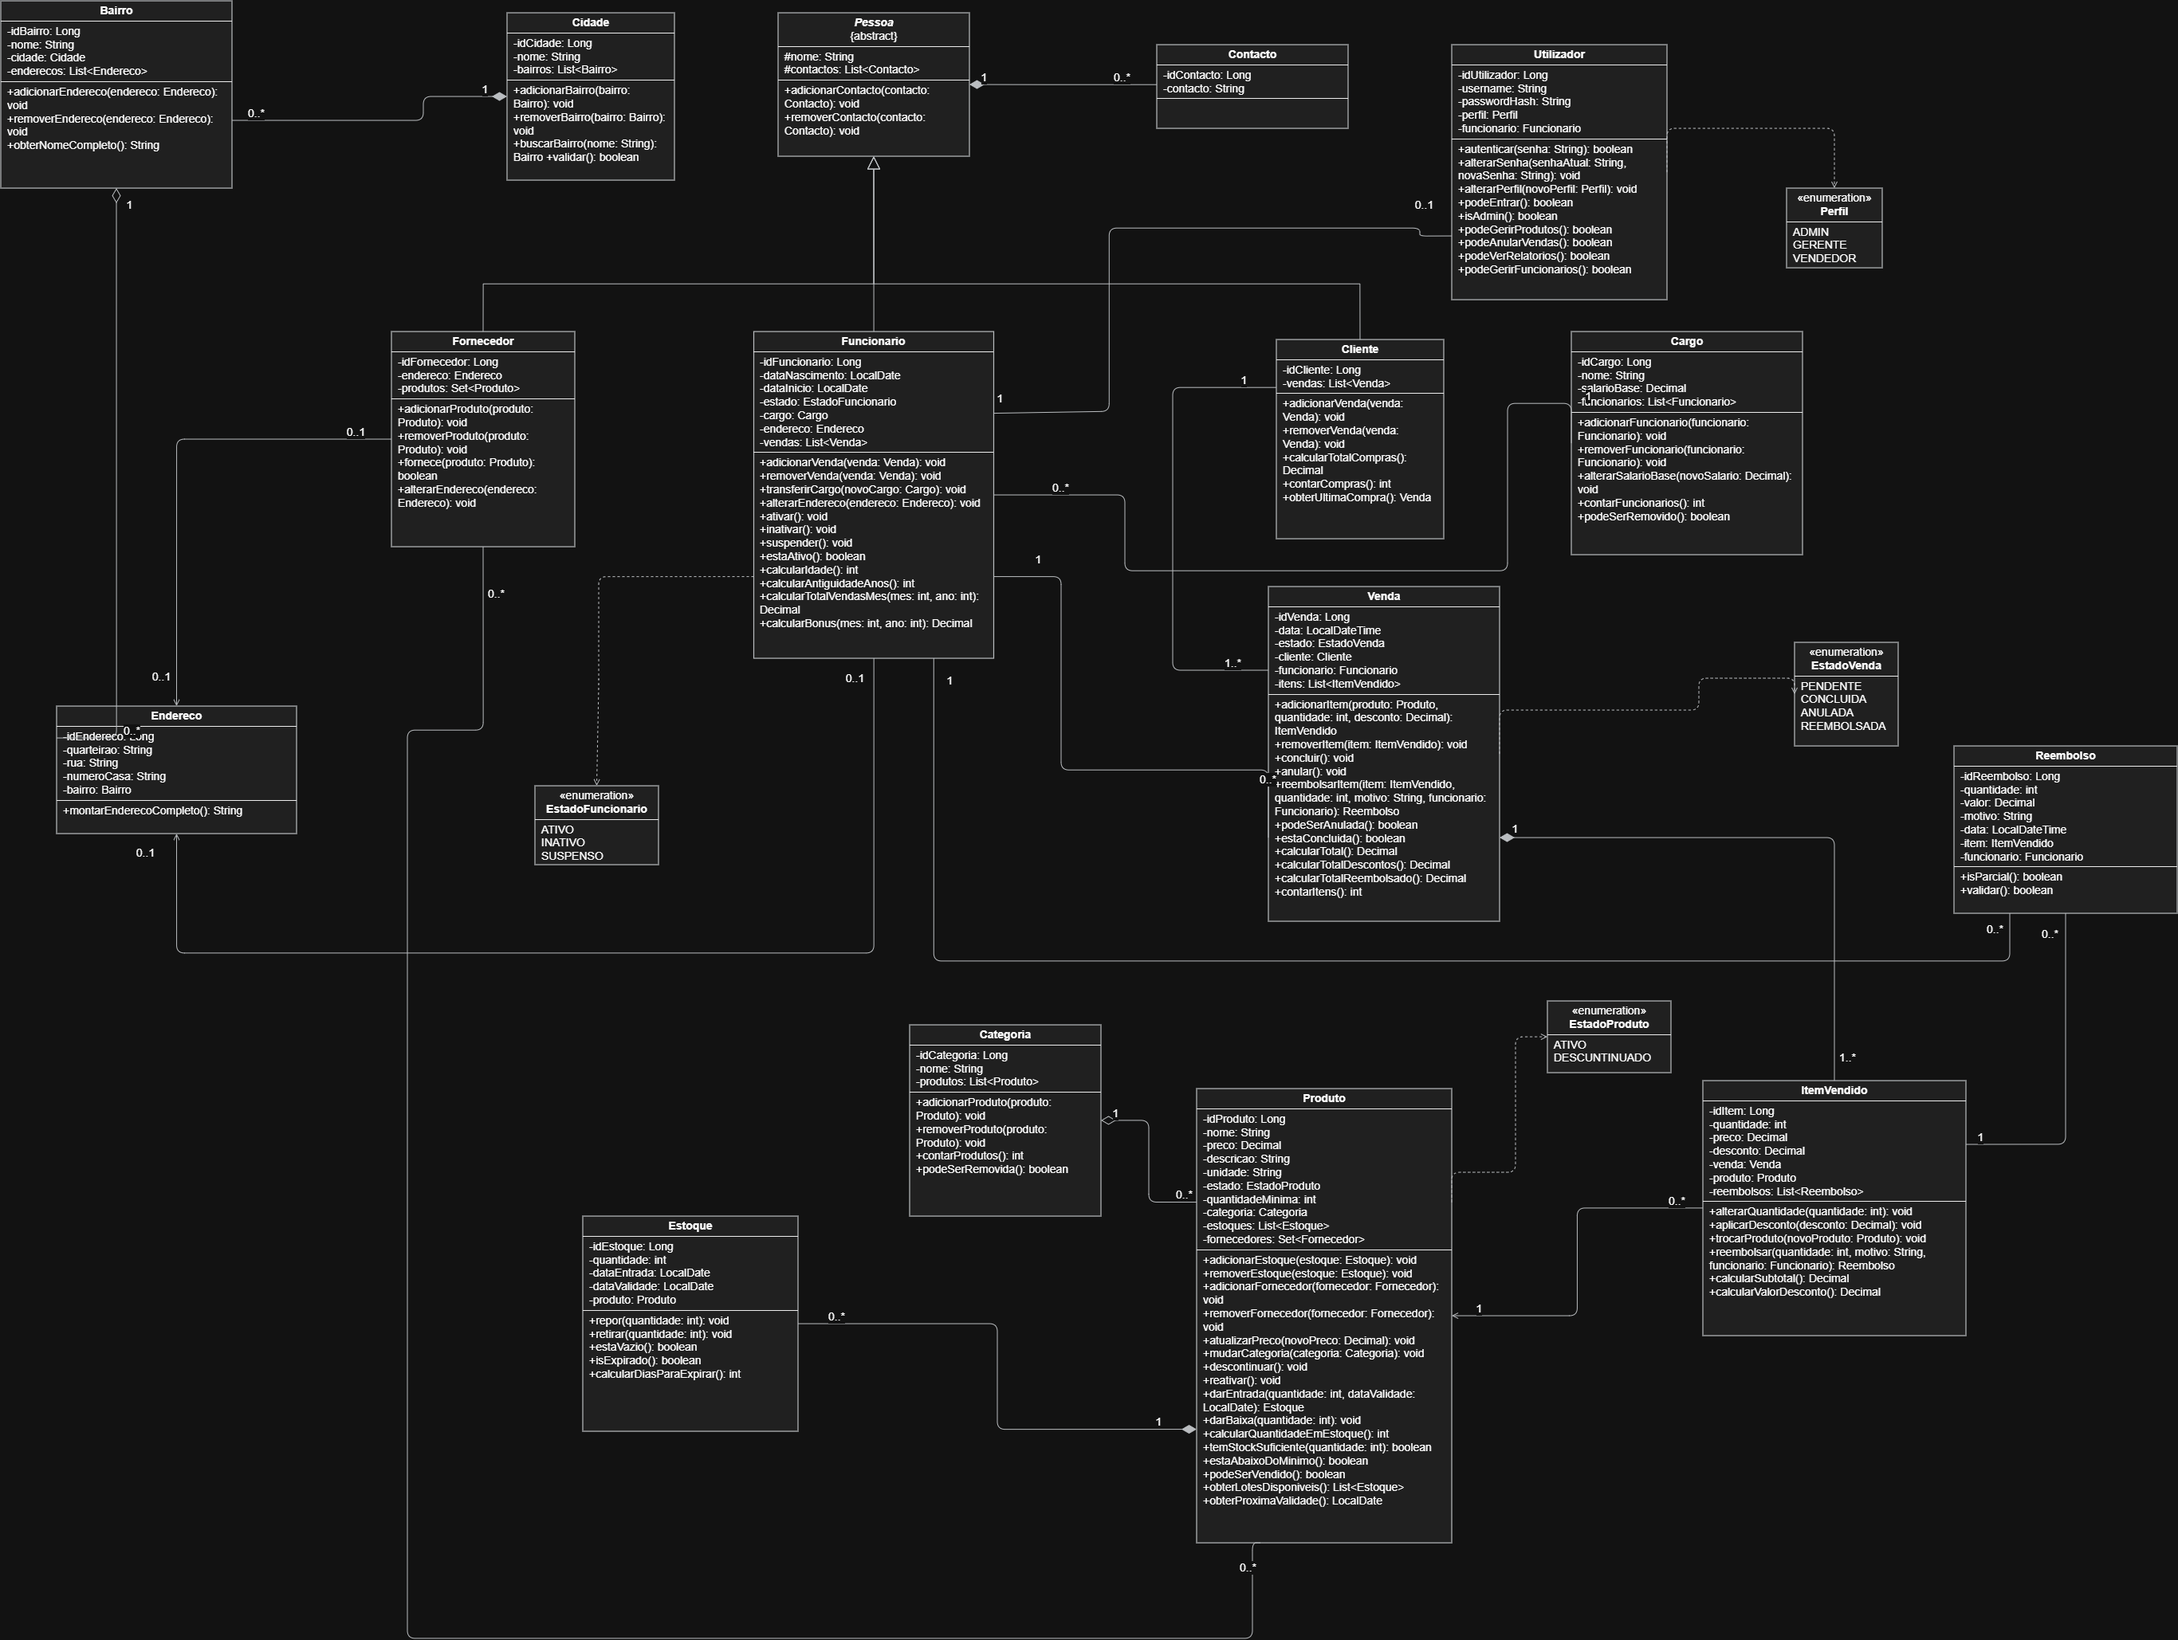
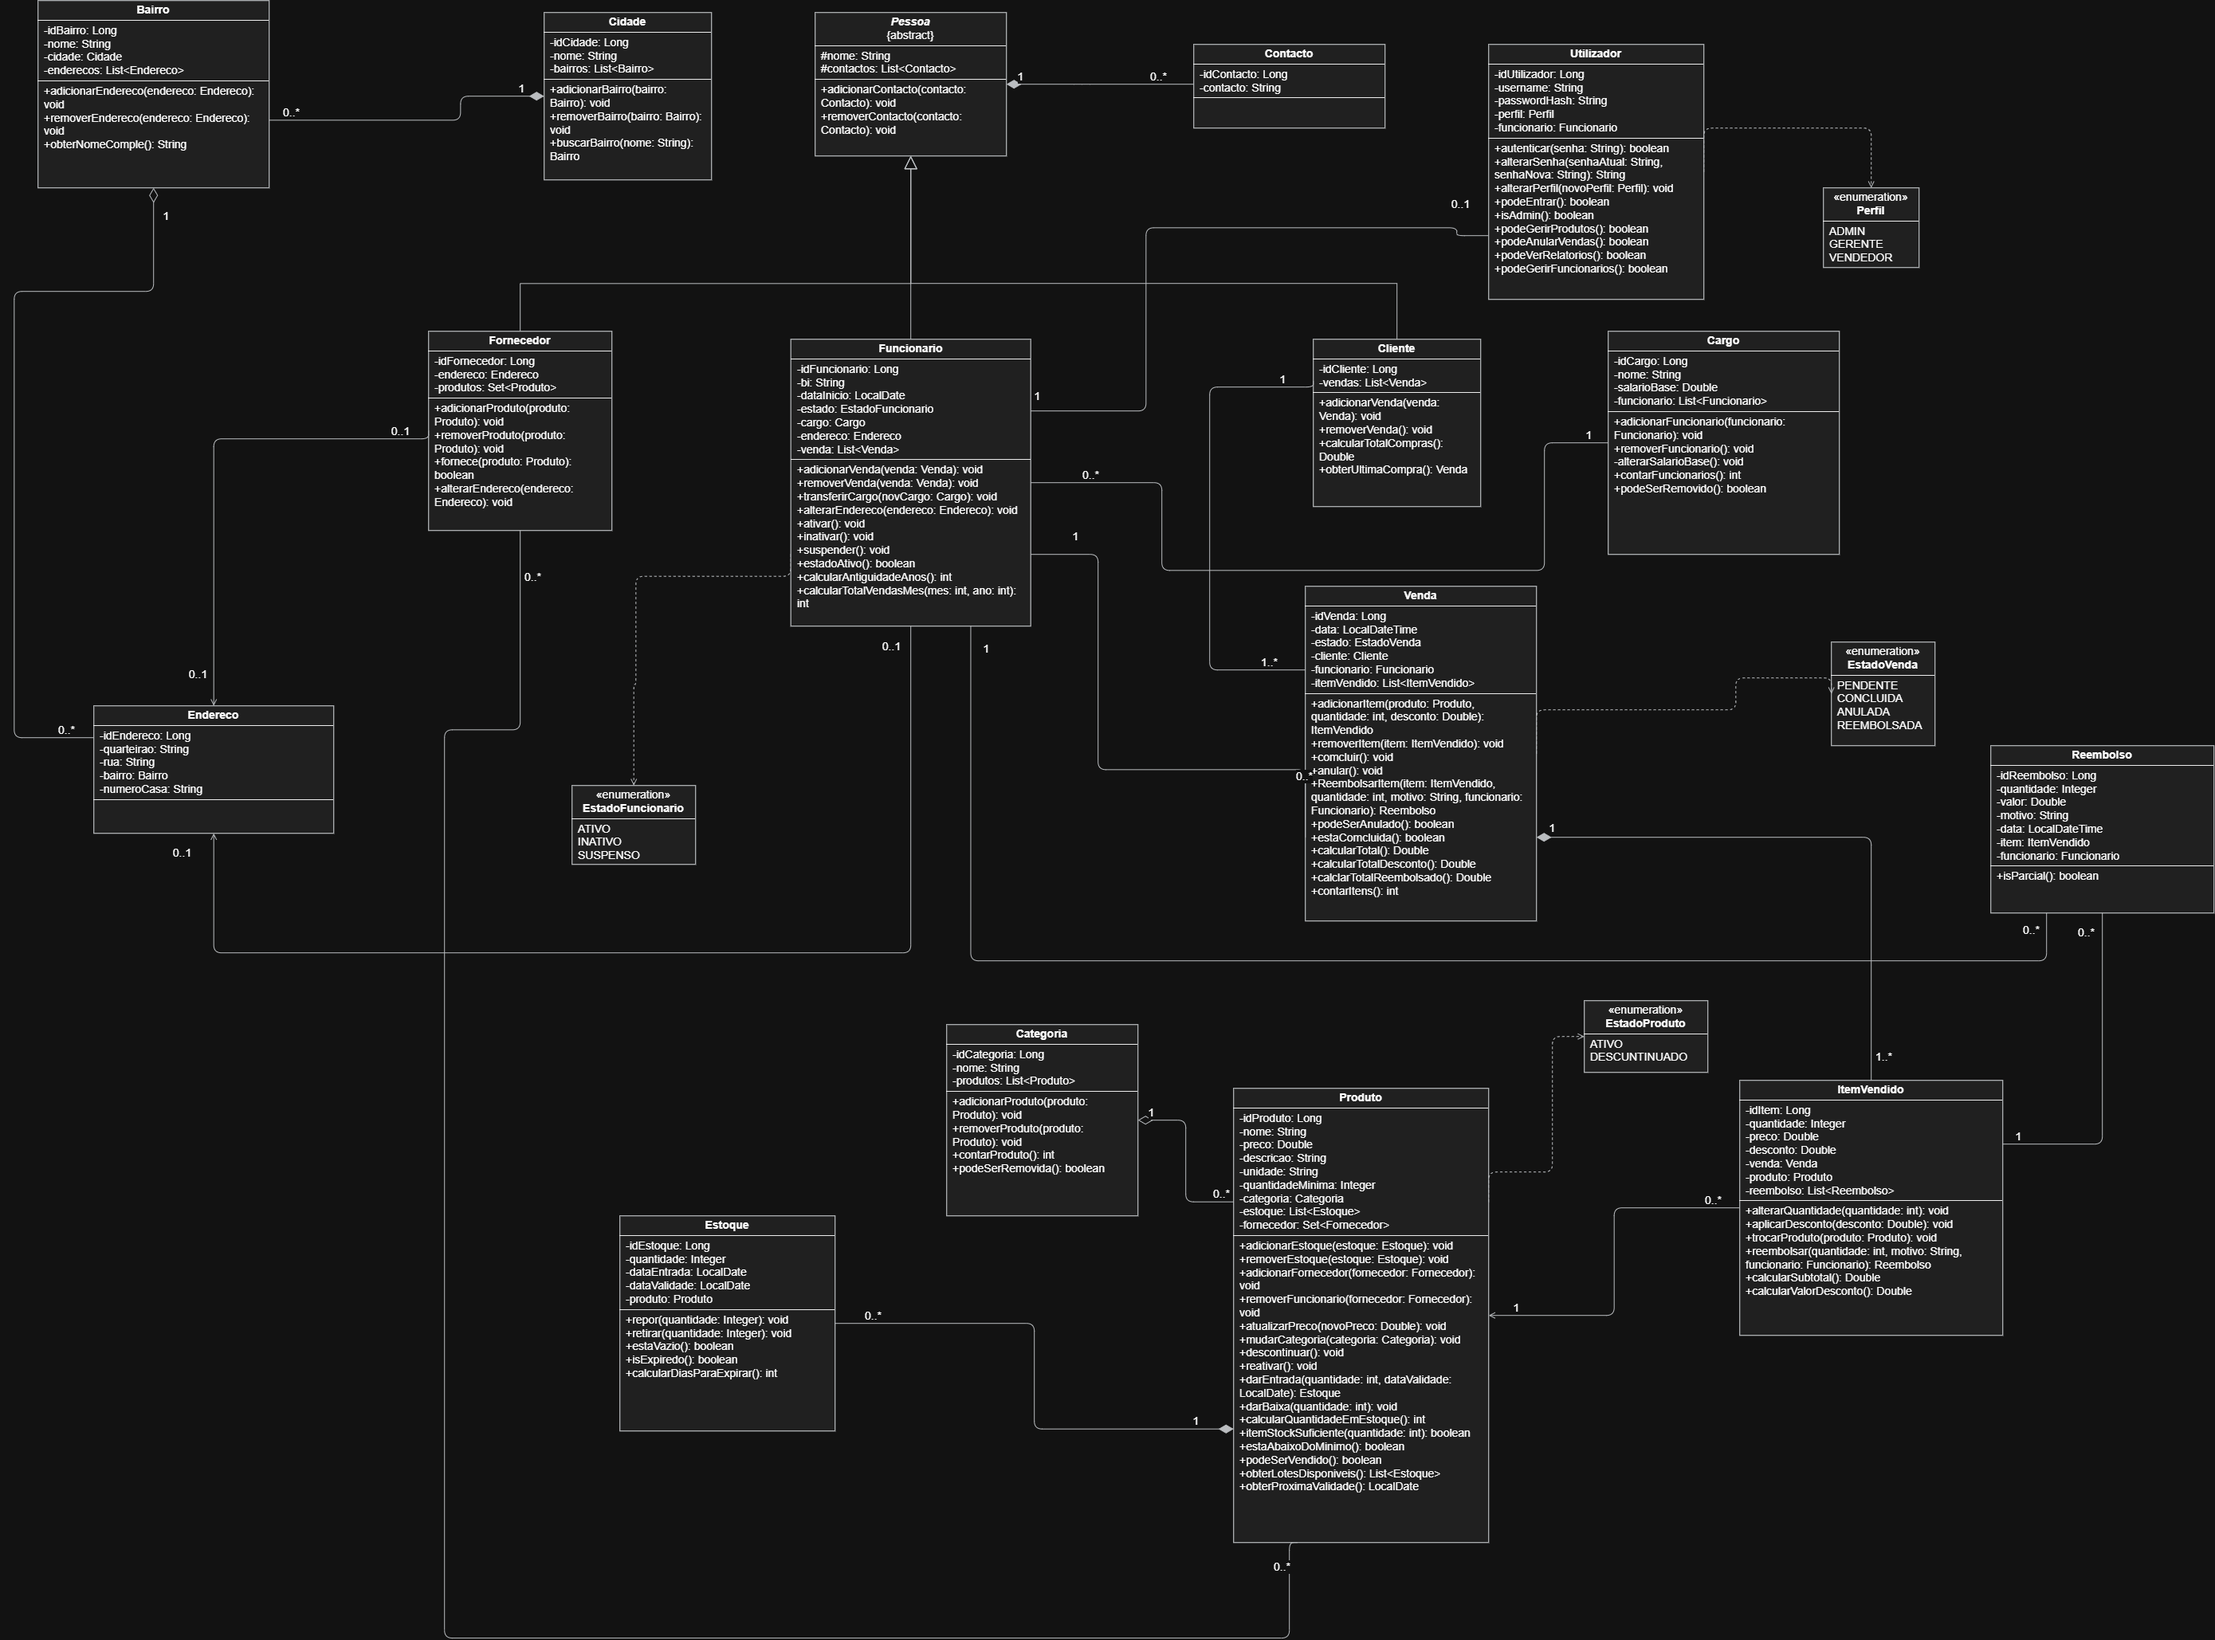
adicionados novo digrama de classe e novo MER

diff --git a/docs/MER/Normalizacao.md b/docs/MER/Normalizacao.md
@@ -1,127 +1,73 @@
 # Sem Normalização
 
-Cliente (id_cliente PK, nome, contacto)
-
-Funcionario (id_funcionario PK, nome, contacto, endereco, data_nascimento, salario, data_inicio, cargo, estado, utilizador, senha, perfil)
-
+Pessoa (id_pessoa PK, nome, contacto, endereco)
+Cliente (id_cliente PK, id_pessoa FK)
+Funcionario (id_funcionario PK, id_pessoa FK, bi, data_nascimento, data_inicio, cargo, salario_base, estado, utilizador, senha, perfil)
+Fornecedor (id_fornecedor PK, id_pessoa FK)
 Categoria (id_categoria PK, nome)
-
 Produto (id_produto PK, nome, preco, descricao, unidade, estado, quantidade_minima, id_categoria FK)
-
-Estoque (id_estoque PK, quantidade, data_entrada, data_validade)
-
-Estoque_produto (id_estoque PK FK, id_produto PK FK)
-
-Fornecedor (id_fornecedor PK, nome, contacto, endereco)
-
-Fornecedor_produto (id_produto PK FK, id_fornecedor PK FK)
-
+Estoque (id_estoque PK, quantidade, data_entrada, data_validade, id_produto FK, id_funcionario FK)
+Fornecedor_produto (id_fornecedor PK FK, id_produto PK FK)
 Venda (id_venda PK, data, total, estado, id_cliente FK, id_funcionario FK)
-
 Item_vendido (id_item PK, quantidade, preco, desconto, id_venda FK, id_produto FK)
-
 Reembolso (id_reembolso PK, quantidade, valor, motivo, data, id_item FK, id_funcionario FK)
-
 
 # 1FN
 
-Cliente (id_cliente PK, nome)
-
-Contacto (id_contacto PK, contacto, id_cliente FK, id_fornecedor FK, id_funcionario FK)
-
-Endereco (id_endereco PK, cidade, bairro, quarteirao, rua, numero_casa, id_fornecedor FK, id_funcionario FK)
-
-Funcionario (id_funcionario PK, nome, data_nascimento, salario, data_inicio, cargo, estado, utilizador, senha, perfil)
-
+Pessoa (id_pessoa PK, nome)
+Contacto (id_contacto PK, contacto, id_pessoa FK)
+Endereco (id_endereco PK, cidade, bairro, quarteirao, rua, numero_casa, id_pessoa FK)
+Cliente (id_cliente PK, id_pessoa FK)
+Funcionario (id_funcionario PK, id_pessoa FK, bi, data_nascimento, data_inicio, cargo, salario_base, estado, utilizador, senha, perfil)
+Fornecedor (id_fornecedor PK, id_pessoa FK)
 Categoria (id_categoria PK, nome)
-
 Produto (id_produto PK, nome, preco, descricao, unidade, estado, quantidade_minima, id_categoria FK)
-
-Estoque (id_estoque PK, quantidade, data_entrada, data_validade)
-
-Estoque_produto (id_estoque_produto PK, id_estoque FK, id_produto FK)
-
-Fornecedor (id_fornecedor PK, nome)
-
-Fornecedor_produto (id_fornecedor_produto PK, id_produto FK, id_fornecedor FK)
-
+Estoque (id_estoque PK, quantidade, data_entrada, data_validade, id_produto FK, id_funcionario FK)
+Fornecedor_produto (id_fornecedor_produto PK, id_fornecedor FK, id_produto FK)
 Venda (id_venda PK, data, total, estado, id_cliente FK, id_funcionario FK)
-
 Item_vendido (id_item PK, quantidade, preco, desconto, id_venda FK, id_produto FK)
-
 Reembolso (id_reembolso PK, quantidade, valor, motivo, data, id_item FK, id_funcionario FK)
-
 
 # 2FN
 
-Cliente (id_cliente PK, nome)
-
-Contacto (id_contacto PK, contacto, id_cliente FK, id_fornecedor FK, id_funcionario FK)
-
-Endereco (id_endereco PK, cidade, bairro, quarteirao, rua, numero_casa, id_fornecedor FK, id_funcionario FK)
-
-Funcionario (id_funcionario PK, nome, data_nascimento, salario, data_inicio, cargo, estado, utilizador, senha, perfil)
-
-Fornecedor (id_fornecedor PK, nome)
-
+Pessoa (id_pessoa PK, nome)
+Contacto (id_contacto PK, contacto, id_pessoa FK)
+Endereco (id_endereco PK, cidade, bairro, quarteirao, rua, numero_casa, id_pessoa FK)
+Cliente (id_cliente PK, id_pessoa FK)
+Funcionario (id_funcionario PK, id_pessoa FK, bi, data_nascimento, data_inicio, estado, id_cargo FK)
+Cargo (id_cargo PK, nome, salario_base)
+Utilizador (id_utilizador PK, username, password_hash, perfil, id_funcionario FK)
+Fornecedor (id_fornecedor PK, id_pessoa FK)
 Categoria (id_categoria PK, nome)
-
 Produto (id_produto PK, nome, preco, descricao, unidade, estado, quantidade_minima, id_categoria FK)
-
-Estoque (id_estoque PK, quantidade, data_entrada, data_validade, id_produto FK)
-
-Fornecedor_produto (id_fornecedor_produto PK, id_produto FK, id_fornecedor FK)
-
+Estoque (id_estoque PK, quantidade, data_entrada, data_validade, id_produto FK, id_funcionario FK)
+Fornecedor_produto (id_fornecedor_produto PK, id_fornecedor FK, id_produto FK)
 Venda (id_venda PK, data, total, estado, id_cliente FK, id_funcionario FK)
-
 Item_vendido (id_item PK, quantidade, preco, desconto, id_venda FK, id_produto FK)
-
 Reembolso (id_reembolso PK, quantidade, valor, motivo, data, id_item FK, id_funcionario FK)
-
 
 # 3FN
 
-Cliente (id_cliente PK, nome)
-
-Contacto (id_contacto PK, contacto, id_cliente FK, id_fornecedor FK, id_funcionario FK)
-
+Pessoa (id_pessoa PK, nome)
+Contato (id_contato PK, contacto, id_pessoa FK)
 Cidade (id_cidade PK, nome)
-
 Bairro (id_bairro PK, nome, id_cidade FK)
-
-Endereco (id_endereco PK, quarteirao, rua, numero_casa, id_bairro FK, id_fornecedor FK, id_funcionario FK)
-
+Endereco (id_endereco PK, quarteirao, rua, numero_casa, id_bairro FK, id_pessoa FK)
+Cliente (id_cliente PK, id_pessoa FK)
+Funcionario (id_funcionario PK, id_pessoa FK, bi, data_nascimento, data_inicio, estado, id_cargo FK)
 Cargo (id_cargo PK, nome, salario_base)
-
-Funcionario (id_funcionario PK, nome, data_nascimento, data_inicio, estado, id_cargo FK)
-
 Utilizador (id_utilizador PK, username, password_hash, perfil, id_funcionario FK)
-
-Fornecedor (id_fornecedor PK, nome)
-
+Fornecedor (id_fornecedor PK, id_pessoa FK)
 Categoria (id_categoria PK, nome)
-
 Produto (id_produto PK, nome, preco, descricao, unidade, estado, quantidade_minima, id_categoria FK)
-
-Estoque (id_estoque PK, quantidade, data_entrada, data_validade, id_produto FK)
-
+Estoque (id_estoque PK, quantidade, data_entrada, data_validade, id_produto FK, id_funcionario FK)
 Fornecedor_produto (id_fornecedor_produto PK, id_produto FK, id_fornecedor FK)
-
-Venda (id_venda PK, data, estado, id_cliente FK, id_funcionario FK)
-
+Venda (id_venda PK, data, total, estado, id_cliente FK, id_funcionario FK)
 Item_vendido (id_item PK, quantidade, preco, desconto, id_venda FK, id_produto FK)
-
 Reembolso (id_reembolso PK, quantidade, valor, motivo, data, id_item FK, id_funcionario FK)
 
-
-
-
-
 # ENUM
-
-- Funcionario_estado: ATIVO, INATIVO, SUSPENSO
-- Utilizador_perfil: ADMIN, GERENTE, VENDEDOR
-- Produto_estado: ATIVO, DESCONTINUADO
-- Venda_estado: PENDENTE, CONCLUIDA, ANULADA, REEMBOLSADA
-
-
+Funcionario_estado: ATIVO, INATIVO, SUSPENSO
+Utilizador_perfil: ADMIN, GERENTE, VENDEDOR
+Produto_estado: ATIVO, DESCONTINUADO
+Venda_estado: PENDENTE, CONCLUIDA, ANULADA, REEMBOLSADA
